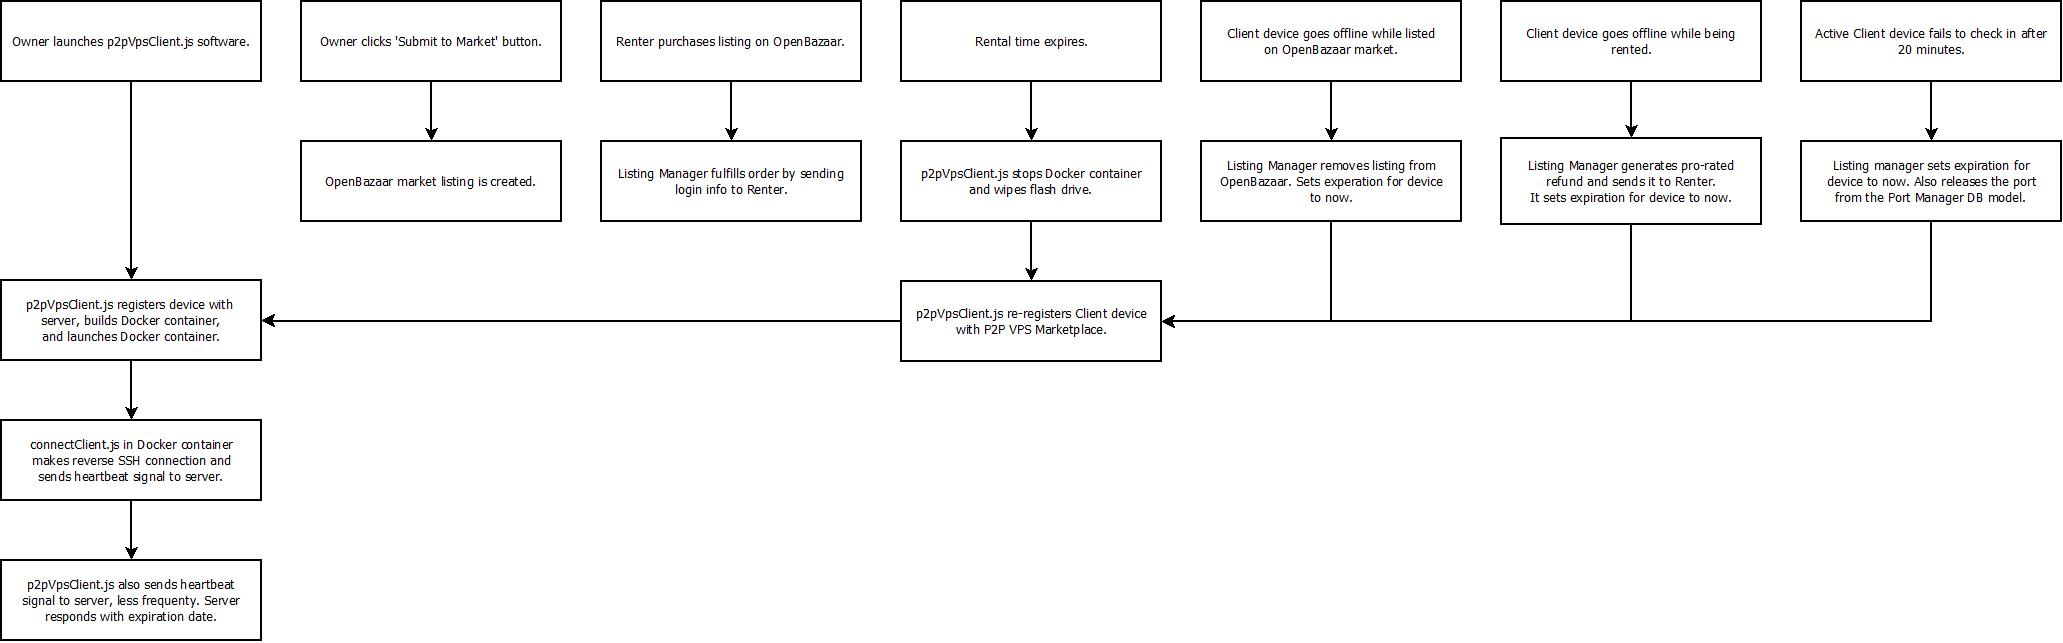
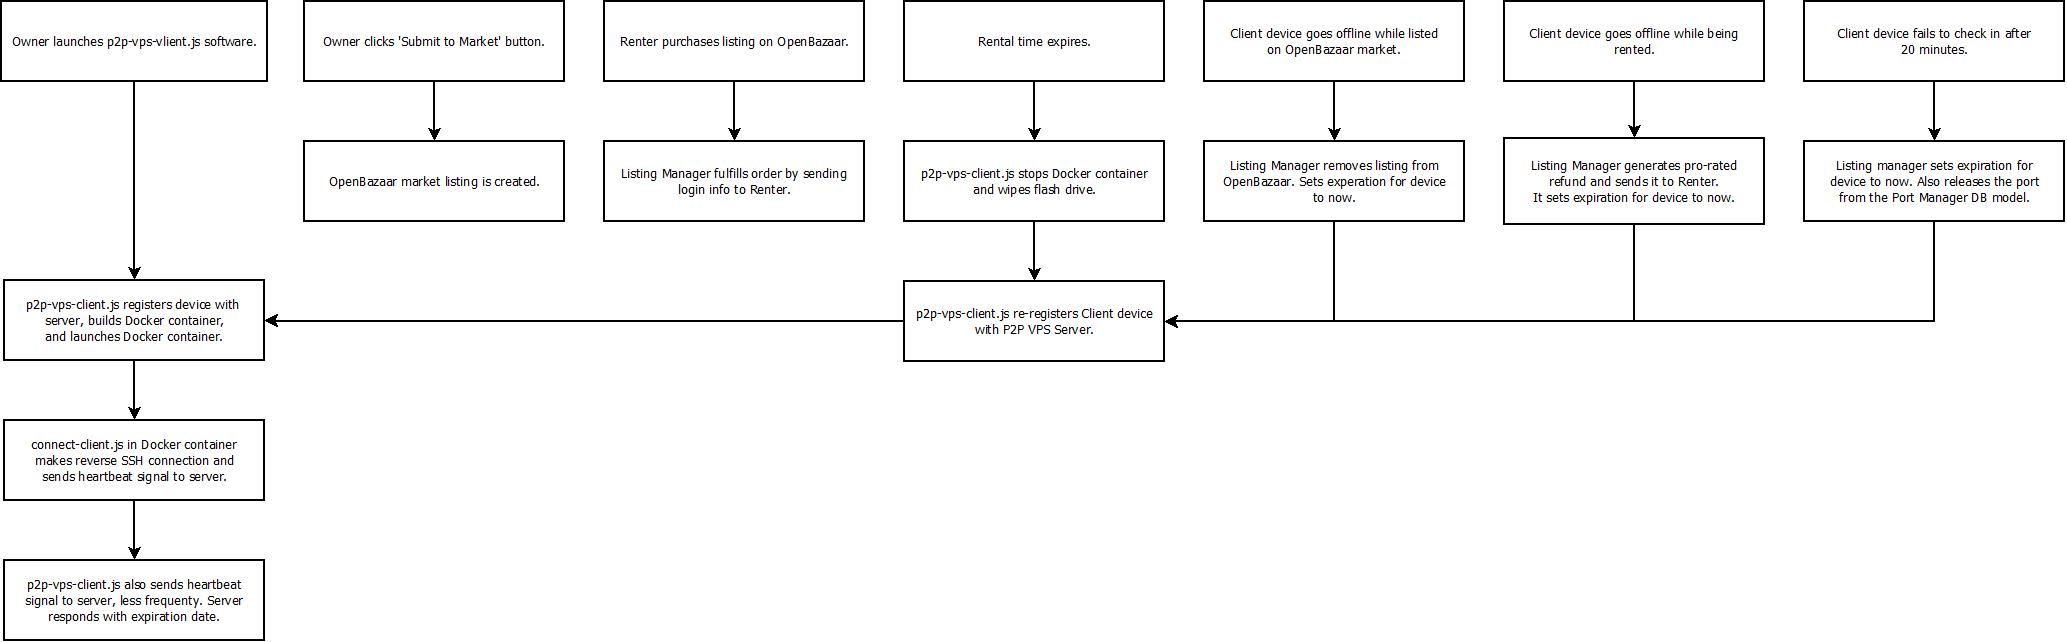
Updating specifications

diff --git a/specifications/client-specification.md b/specifications/client-specification.md
@@ -11,7 +11,7 @@ high-level features:
 
 The sections below detail the specifications for each of these features:
 
-## Governor (p2pVpsClient.js)
+## Governor (p2p-vps-client.js)
 The primary purpose of the governor software is to manage the Docker container and communicate with the
 P2P VPS server. It plays the following roles:
 * It reads the deviceGUID.json file and registers the Client device with the P2P VPS server.
@@ -29,7 +29,7 @@ This workflow diagram illustrates how transactions initiated and managed:
 A Docker container is generated by the `p2pVpsClient.js` governor application. The Owner initiates the creation
 of the Docker container by registering the device in the Marketplace dashboard. They are given a GUID, which they
 then copy to the file `deviceGUID.json`. `p2pVpsClient.js` reads this file and makes a
-REST API call to the server to register itself. 
+REST API call to the server to register itself.
 
 After a successful registration call, the server returns a computer generated username, password, and port.
 The port is used to establish a reverse SSH tunnel to the Docker container. The username and password are
@@ -60,7 +60,7 @@ https://launchbylunch.com/posts/2014/Jan/13/encrypting-docker-on-digitalocean/
 ## Deployment Packages
 A collection of scripts will be made available to renters. These are preconfigured shell scripts or some other
 type of package manager that allows them to quickly deploy common web services like NextCloud, a blog, a webserver,
-a single page application development environment, a TOR node, an OpenBazaar server, VPN software, etc. Easy scripts to deploy many of 
+a single page application development environment, a TOR node, an OpenBazaar server, VPN software, etc. Easy scripts to deploy many of
 [these use cases](https://raspberry-hosting.com/en/applications).
 
 This project will rely on user contributions for this section. If interested, please see our
